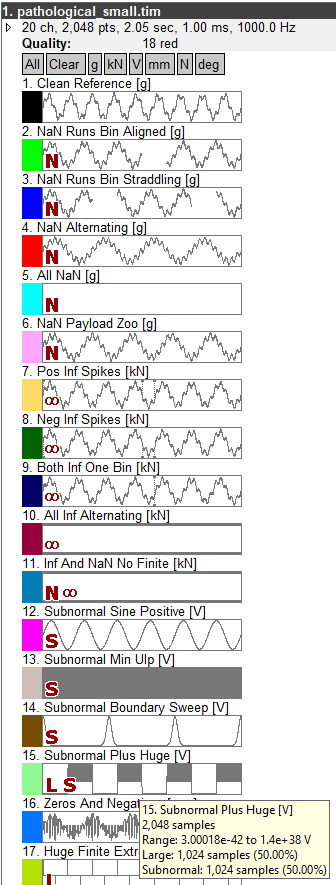
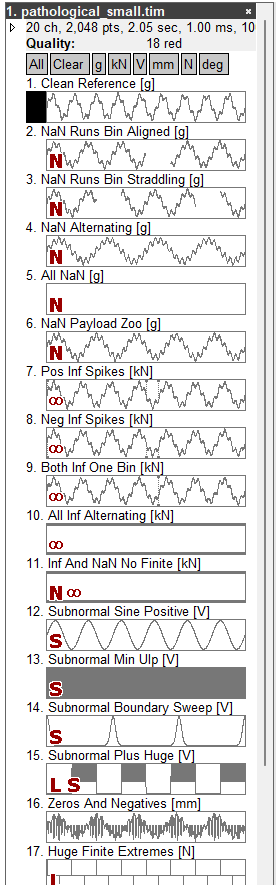
Publish v0.29.358.0
Both brands, signed, at one version. The four exe copies, a v0-29 block in
the changelog digest, a release row, and the homepage's prose version line.

features.html moves with the app. 0.29 retired the file-tree tooltip, so the
"Channel statistics on hover" row and its screenshot were describing UI that
no longer exists; it is replaced by the channel preview, and the quality row
now points at the preview's Notices panel for the per-channel breakdown
instead of at a tooltip. quality.png was retaken without it.

New rows: the preview itself in Inspect, and the spectrum preview in Analyze,
covering the PSD figures and the CSD pair table. The spectra row picks up a
sentence on per-segment mean removal, which needs no figure of its own.

Screenshots from the signed v0.29.358.0 build, road_load_demo.tim and
pathological_small.tim, both generator-built.

diff --git a/features.html b/features.html
@@ -187,6 +187,9 @@
                         <h3>Time, frequency and histogram views</h3>
                         <p>View time histories, power spectral density, or both together, with
                            or without a histogram panel alongside.</p>
+                        <p>Each segment&rsquo;s mean is removed before the transform, so a channel
+                           riding an offset shows how it varies rather than a spike at 0&nbsp;Hz
+                           taller than anything it actually does.</p>
                         <p class="how">How: Plots &rarr; Time, PSD, Time / PSD, or
                            Time / PSD / Histogram.</p>
                     </div>
@@ -221,6 +224,36 @@
                            and more.</p>
                         <p class="how">How: Plots &rarr; CSD Matrix or CSD Overlaid; Wrap menu
                            for the phase range.</p>
+                    </div>
+                </article>
+
+                <article class="feature-row" id="preview-spectrum">
+                    <figure><a href="images/features/preview-spectrum.png"><img src="images/features/preview-spectrum.png" alt="Pointing at LF Spindle Vert Accel on a PSD plot: its spectrum alone in the framed box, with three columns underneath reading peak frequency 12.7 Hz at 8.51 (m/s^2)^2/Hz or 9.3 dB and a roll-off of -20.7 dB per decade; a noise floor of -41 dB, 246 Hz of signal bandwidth and 50.3 dB of dynamic range; and Nfft 2048 over 21 averages with a 0.979 Hz noise bandwidth and plus or minus 23 percent uncertainty" loading="lazy"></a></figure>
+                    <div class="feature-text">
+                        <h3>Read a channel&rsquo;s spectrum on hover</h3>
+                        <p>On a frequency plot the preview shows the channel&rsquo;s spectrum
+                           instead of its time trace, on the same engineering-unit or decibel
+                           axis as the main plot, and reads it for you in three columns.</p>
+                        <p><strong>Shape</strong> gives the peak&rsquo;s frequency and level,
+                           in engineering units and dB, and the roll-off above it in dB per
+                           decade. <strong>Quality</strong> gives the noise floor, the signal
+                           bandwidth &mdash; the highest frequency still 10&nbsp;dB clear of that
+                           floor &mdash; and the dynamic range between them.
+                           <strong>Calculation</strong> gives Nfft, the number of averages, the
+                           noise bandwidth, and the random error the averaging leaves on the
+                           result.</p>
+                        <p>A channel too slow for the bin spacing to resolve &mdash; a vehicle
+                           speed, a steering angle &mdash; is flagged <strong>Not a vibration
+                           channel</strong>, with the share of its variation sitting below that
+                           resolution, rather than being handed a peak that means nothing.</p>
+                        <p>In the CSD plots the preview pairs the channel with every plotted
+                           channel from its own file: its own spectrum first, then its cross
+                           spectrum with each of them, following the main plot&rsquo;s decibel and
+                           phase-wrap settings. A table underneath gives, for each pair, where
+                           the cross spectrum peaks, its level and phase there, the coherence at
+                           that peak, and a band coherence weighted so the frequencies where the
+                           two channels share power are the ones that decide it.</p>
+                        <p class="how">How: point at a channel row on any PSD or CSD plot.</p>
                     </div>
                 </article>
 
@@ -281,12 +314,31 @@
                     </div>
                 </article>
 
-                <article class="feature-row" id="hover-stats">
-                    <figure class="figure-tall"><a href="images/features/hover-stats.png"><img src="images/features/hover-stats.png" alt="A tooltip over the Engine Speed channel showing its sample count and range" loading="lazy"></a></figure>
+                <article class="feature-row" id="preview">
+                    <figure><a href="images/features/preview-time.png"><img src="images/features/preview-time.png" alt="Pointing at Body Vertical Acceleration in the file tree: the channel is drawn alone in a large framed box over the middle of the plot area, the ten plotted traces dimmed behind it, with a Statistics panel underneath giving min, max, mode, mean, standard deviation, RMS, crest factor, skewness and excess kurtosis, and a Notices panel beside it" loading="lazy"></a></figure>
                     <div class="feature-text">
-                        <h3>Channel statistics on hover</h3>
-                        <p>Hover a channel in the file tree to see its sample count, min/max
-                           range and data-quality flags.</p>
+                        <h3>Preview a channel before you plot it</h3>
+                        <p>Point at a channel in the file tree and it is drawn on its own, in a
+                           large framed box over the middle of the plot area, with the main plot
+                           dimmed behind it. It follows the pointer down the list, so you can
+                           read through twenty channels without plotting any of them. The title
+                           bar says what a click will do &mdash; <strong>Click to add</strong> or
+                           <strong>Click to remove</strong>.</p>
+                        <p>The preview always shows the whole record. When the main plot is
+                           zoomed in, the zoomed span is shaded on the preview, so it doubles as
+                           a map of where you are in the file.</p>
+                        <p>Underneath, a Statistics panel gives the channel&rsquo;s minimum,
+                           maximum and mode; its mean, standard deviation and RMS; and its crest
+                           factor, skewness and excess kurtosis. They are taken over the finite
+                           samples only, and the heading says so on a channel that has NaNs or
+                           infinities. A recording with its own timestamps is weighted by how
+                           long each sample was held, so a burst of messages does not outweigh a
+                           long steady stretch. A Notices panel beside it lists the channel&rsquo;s
+                           data-quality warnings with their counts.</p>
+                        <p>On a large file still being worked out, the figures show as
+                           &ldquo;&hellip;&rdquo; and fill in on their own &mdash; the channel
+                           you are pointing at is moved to the front of the queue.</p>
+                        <p class="how">How: point at a channel row. Nothing to turn on.</p>
                     </div>
                 </article>
 
@@ -319,9 +371,11 @@
                            1e12), <strong>S</strong> for subnormals &mdash; numbers so close to
                            zero that they have lost precision &mdash; and a flag for a dead
                            channel that never changes value.</p>
-                        <p>Hovering gives the breakdown: how many samples each check caught and
-                           what fraction of the channel that is. The file row totals it up, so
-                           a file says &ldquo;18 red&rdquo; before you open a single channel.</p>
+                        <p>Pointing at a channel gives the breakdown, in the
+                           <a href="#preview">preview&rsquo;s</a> Notices panel: how many samples
+                           each check caught and what fraction of the channel that is. The file
+                           row totals it up, so a file says &ldquo;18 red&rdquo; before you open
+                           a single channel.</p>
                     </div>
                 </article>
 

diff --git a/changelog.html b/changelog.html
@@ -27,6 +27,59 @@
     <section id="changelog">
         <h2>Changelog</h2>
 
+        <div class="release" id="v0-29">
+            <h3>0.29 <time>&mdash; September 23, 2026</time></h3>
+            <ul>
+                <li>Pointing at a channel in the file tree now previews it. The channel is
+                    drawn on its own in a large framed box over the middle of the plot area,
+                    with the main plot dimmed around it, and it follows the pointer down the
+                    list. The preview always shows the whole record, and when the main plot is
+                    zoomed the zoomed span is shaded on it, so it reads as a map of where you
+                    are. The title bar says what a click will do &mdash; <strong>Click to
+                    add</strong> or <strong>Click to remove</strong>.</li>
+                <li>Under the preview, a Statistics panel gives the channel's minimum, maximum
+                    and mode; its mean, standard deviation and RMS; and its crest factor,
+                    skewness and excess kurtosis. They are taken over the channel's finite
+                    samples only, and the panel says so on a channel that has NaNs or
+                    infinities. A recording that carries its own timestamps is weighted by how
+                    long each sample was held, so a burst of messages does not outweigh a long
+                    steady stretch. On a large file the figures show as &ldquo;&hellip;&rdquo;
+                    and fill in on their own, with the channel you are pointing at worked out
+                    first.</li>
+                <li>A Notices panel beside it lists the channel's data-quality warnings with
+                    their counts.</li>
+                <li>On a PSD plot the preview draws the channel's spectrum instead, on the same
+                    engineering-unit or decibel axis as the main plot, and reads it in three
+                    columns: the peak's frequency and level, with the roll-off above it; the
+                    noise floor, the signal bandwidth and the dynamic range between them; and
+                    how the spectrum was computed &mdash; Nfft, the number of averages, the
+                    noise bandwidth, and the random error the averaging leaves behind.</li>
+                <li>A channel too slow for the PSD's bin spacing to resolve &mdash; a vehicle
+                    speed, a steering angle &mdash; is flagged <strong>Not a vibration
+                    channel</strong>, with the share of its variation sitting below that
+                    resolution, rather than being given a peak that means nothing.</li>
+                <li>In the Time+PSD and Time+PSD+Histogram plots the preview shows both halves,
+                    divided by a line: the time trace with its statistics, then the spectrum
+                    across the full width with its own.</li>
+                <li>In the CSD plots the preview pairs the channel with every plotted channel
+                    from its own file &mdash; its own spectrum first, then its cross spectrum
+                    with each of them, following the main plot's decibel and phase-wrap
+                    settings. A table underneath gives, for each pair, where the cross spectrum
+                    peaks, its level and phase there, the coherence at that peak, and a band
+                    coherence weighted so the frequencies where the two channels share power
+                    are the ones that decide it.</li>
+                <li>The channel tooltip in the file tree is gone. Its range and quality
+                    warnings are in the preview now, and its sample count is on the file's own
+                    row.</li>
+                <li>PSD and CSD remove each segment's mean before the transform. A channel
+                    riding an offset no longer shows a spike at 0&nbsp;Hz taller than anything
+                    it actually does, which used to set the scale for the whole plot.</li>
+                <li>Fixed: the phase in the CSD plots had the wrong sign for its labels, so the
+                    matrix showed the opposite triangle from the one its labels named. A
+                    channel that lags now reads negative.</li>
+            </ul>
+        </div>
+
         <div class="release" id="v0-28">
             <h3>0.28 <time>&mdash; September 22, 2026</time></h3>
             <ul>

diff --git a/releases.html b/releases.html
@@ -33,6 +33,17 @@
 
         <div class="release-row">
             <div class="release-row-info">
+                <h3>v0.29.358.0</h3>
+                <p>September 23, 2026 &middot; 1.3&nbsp;MB &middot; <a href="changelog.html#v0-29">what's new</a></p>
+            </div>
+            <div class="release-row-links">
+                <a href="downloads/releases/EnginPlot_v0.29.358.0.exe" class="btn btn-small" download>Download</a>
+                <a href="downloads/releases/PlotIt_v0.29.358.0.exe" class="release-alt" download>as PlotIt.exe</a>
+            </div>
+        </div>
+
+        <div class="release-row">
+            <div class="release-row-info">
                 <h3>v0.28.330.0</h3>
                 <p>September 22, 2026 &middot; 1.3&nbsp;MB &middot; <a href="changelog.html#v0-28">what's new</a></p>
             </div>

diff --git a/index.html b/index.html
@@ -92,7 +92,7 @@
 
     <section id="download">
         <h2>Download</h2>
-        <p>EnginPlot is free and runs on Windows 10+. Version 0.28, 1.3&nbsp;MB, no installer.</p>
+        <p>EnginPlot is free and runs on Windows 10+. Version 0.29, 1.3&nbsp;MB, no installer.</p>
         <a href="downloads/EnginPlot-latest.exe" class="btn" download>Download latest release</a>
         <p class="download-alt">Knew it as PlotIt?
            <a href="downloads/PlotIt-latest.exe" download>Download as PlotIt.exe</a> &mdash; the same
